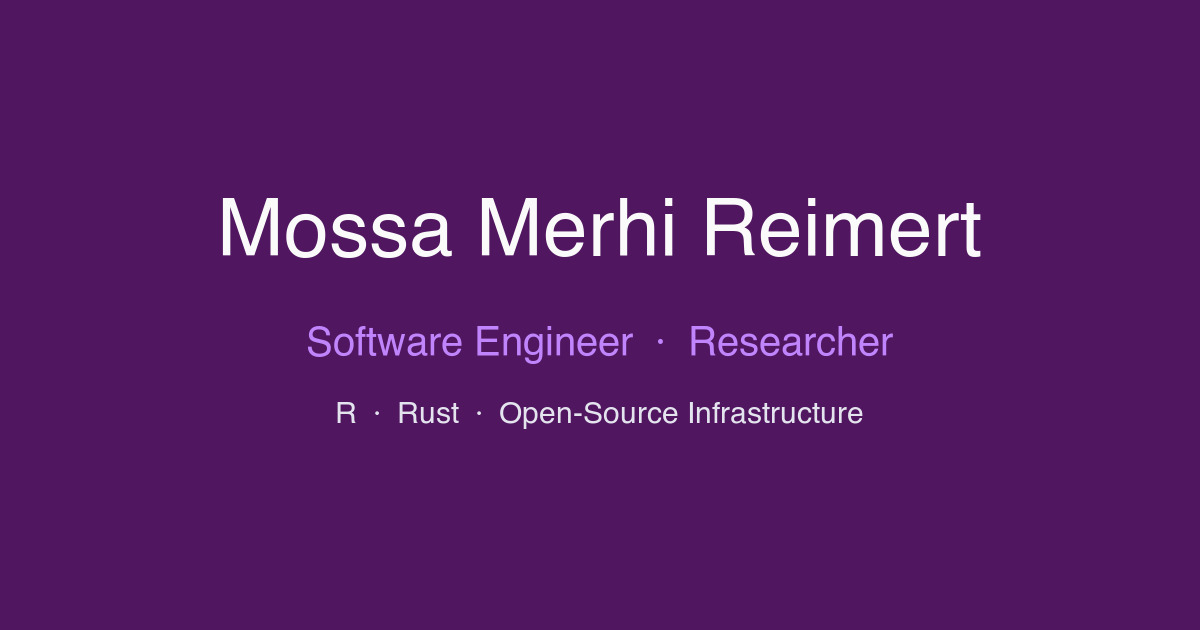
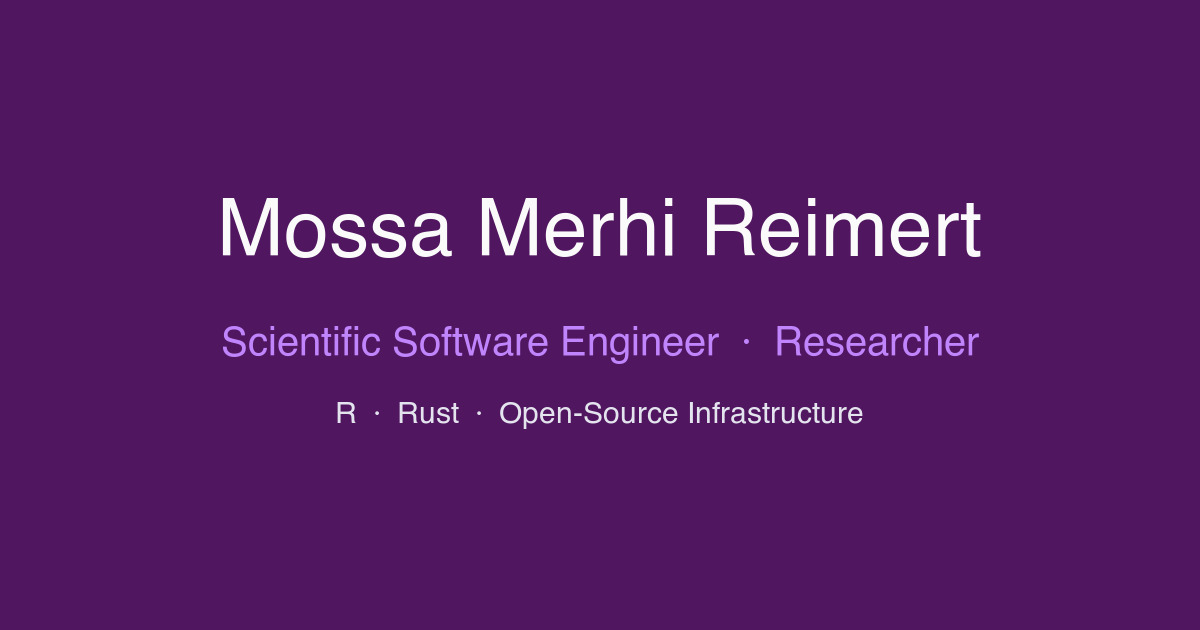
content: fix role title, Typst year order, and add FFI skill
- Home hero: "Software Engineer" -> "Scientific Software Engineer"
  to match the role shown on the CV and the about text.
- CV conference: "2026 Typst Meetup Berlin" -> "Typst Meetup
  Berlin 2026" (year trailing, consistent with other conference
  entries that put the location first).
- CV skills: add "Foreign Function Interface (FFI)".
- Regenerate the OG card with the updated subtitle.

Changed region(s): [[0.185, 0.5127, 0.8325, 0.573]]

diff --git a/content/cv/_index.md b/content/cv/_index.md
@@ -36,7 +36,7 @@ modelling, and scientific computing.
 
 ## Skills
 
-{{ skills(list="R, Rust, Git & GitHub Actions, MATLAB, Python, PyTorch, C#, C / C++, Bash, Typst, Statistical modelling, Scientific computing, Technical teaching") }}
+{{ skills(list="R, Rust, Foreign Function Interface (FFI), Git & GitHub Actions, MATLAB, Python, PyTorch, C#, C / C++, Bash, Typst, Statistical modelling, Scientific computing, Technical teaching") }}
 
 ## Experience
 
@@ -254,7 +254,7 @@ Specialisation in computational physics.
 ## Conferences
 
 {% cv_entry(
-title="2026 Typst Meetup Berlin",
+title="Typst Meetup Berlin 2026",
 org="Typst",
 org_key="typst",
 meta="Berlin · 28 February 2026 · 14:30 CET"

diff --git a/content/_index.md b/content/_index.md
@@ -4,7 +4,7 @@ description = "Mossa Merhi Reimert builds research software, modelling tools, an
 +++
 
 {% hero(
-subtitle="Software Engineer · Researcher · Open-Source Maintainer"
+subtitle="Scientific Software Engineer · Researcher · Open-Source Maintainer"
 ) %}
 R/Rust programmer and statistical modeller. Senior Scientific Software
 Engineer at [**A2-Ai**](https://a2-ai.com). I build robust technical systems for
